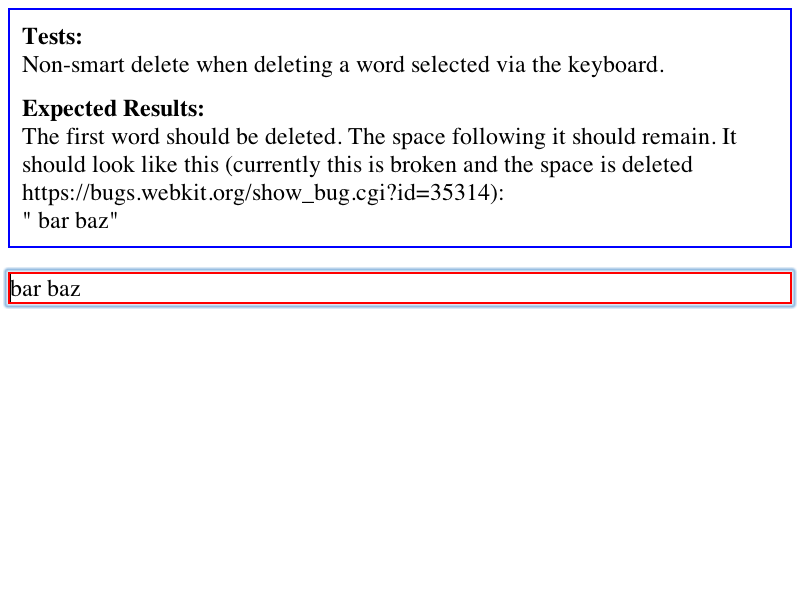
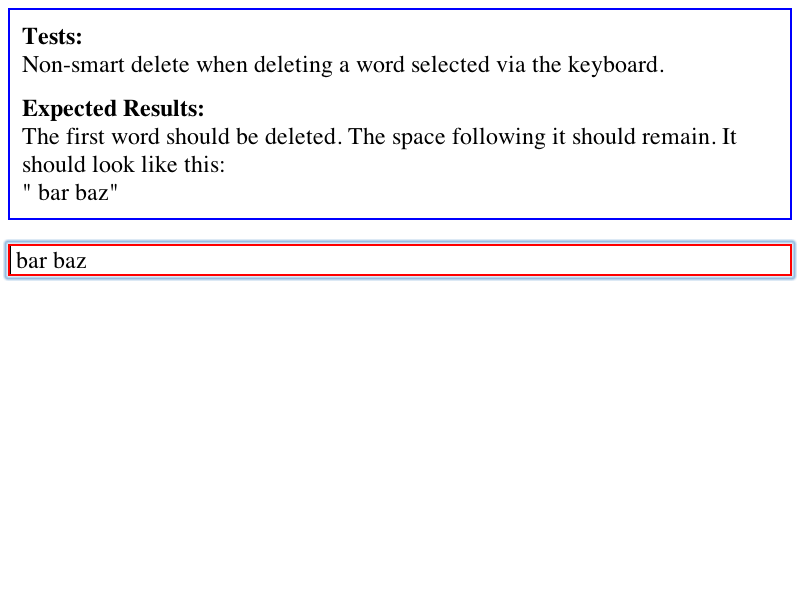
2010-03-12  Ojan Vafai  <ojan@chromium.org>
Reviewed by David Levin.

        smartdelete should only occur after double-click
        https://bugs.webkit.org/show_bug.cgi?id=35314

        * editing/deleting/non-smart-delete.html:
        * editing/pasteboard/drag-drop-modifies-page.html:
        * editing/pasteboard/page-zoom-expected.txt:
        Space is removed because we used to incorrectly smartpaste here.
        New behavior matches NSTextView.
        * editing/style/apply-through-end-of-document-expected.txt:
        The change here is that selectall + smartpaste doesn't put a BR,
        but selectall + normal-paste does. Not sure if that's a bug or not,
        but it's not a side effect of this change.
        * editing/style/style-boundary-005.html:
        * platform/mac/editing/deleting/non-smart-delete-expected.checksum:
        * platform/mac/editing/deleting/non-smart-delete-expected.png:
        * platform/mac/editing/deleting/non-smart-delete-expected.txt:
        * platform/mac/editing/execCommand/paste-1-expected.txt:
        * platform/mac/editing/execCommand/paste-2-expected.txt:
        * platform/mac/editing/pasteboard/drag-drop-modifies-page-expected.checksum:
        * platform/mac/editing/pasteboard/drag-drop-modifies-page-expected.png:
        * platform/mac/editing/pasteboard/drag-drop-modifies-page-expected.txt:

        * platform/mac/editing/selection/expanding-selections-expected.txt:
        * platform/mac/editing/selection/expanding-selections2-expected.txt:
[…]

Changed region(s): [[0.0, 0.24, 1.0, 0.54]]

diff --git a/editing/pasteboard/drag-drop-modifies-page.html b/editing/pasteboard/drag-drop-modifies-page.html
@@ -29,8 +29,7 @@ function editingTest() {
 </head> 
 <body>
 <p>This tests non-smartmove drag/drop. The space should be deleted on move,
-but not reinserted on drop, resulting in "worldhello". Currently there's a bug
-(https://bugs.webkit.org/show_bug.cgi?id=35314) where the space is reinserted on drop.</p>
+but not reinserted on drop, resulting in "worldhello".</p>
 <div contenteditable="true" id="test"><span id="dragme">hello</span> world</div>
 <script>runEditingTest();</script>
 </body>

diff --git a/editing/deleting/non-smart-delete.html b/editing/deleting/non-smart-delete.html
@@ -40,7 +40,7 @@ Non-smart delete when deleting a word selected via the keyboard.
 <div class="expected-results">
 Expected Results:
 <br>
-The first word should be deleted. The space following it should remain. It should look like this (currently this is broken and the space is deleted https://bugs.webkit.org/show_bug.cgi?id=35314):
+The first word should be deleted. The space following it should remain. It should look like this:
 <BR>
 " bar baz"
 </div>

diff --git a/editing/style/style-boundary-005.html b/editing/style/style-boundary-005.html
@@ -51,8 +51,7 @@ Pasting at style boundary does not crash or produce empty style span(s).
 <div class="expected-results">
 Expected Results:
 <br>
-Should see this content in the red box below (currently there's a bug where
-there is an extra space after the bold element https://bugs.webkit.org/show_bug.cgi?id=35314):
+Should see this content in the red box below:
 <br><div>one two three <b>four</b>one</div>
 </div>
 </div>
